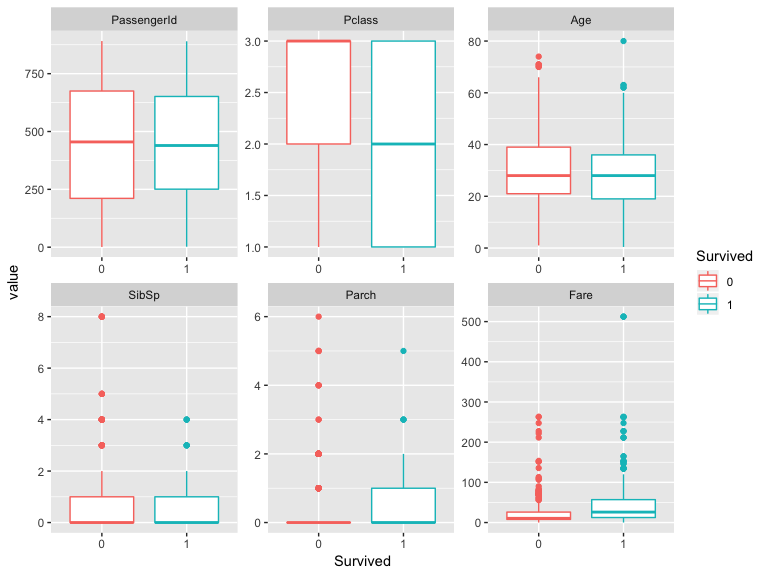
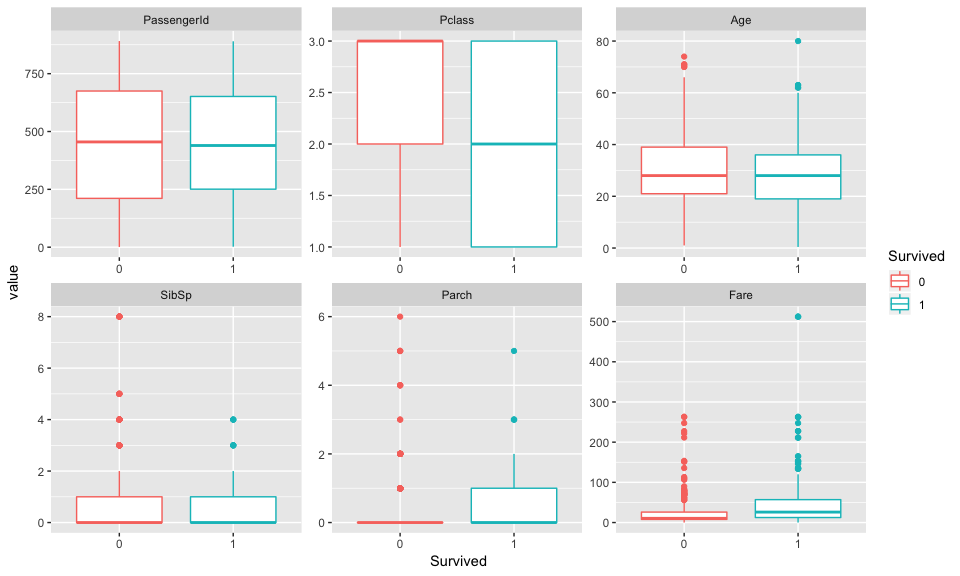
Update size of plots

diff --git a/Titanic.md b/Titanic.md
@@ -54,32 +54,6 @@ dim(df_train)
 
     ## [1] 891  12
 
-``` r
-head(df_train)
-```
-
-    ##   PassengerId Survived Pclass
-    ## 1           1        0      3
-    ## 2           2        1      1
-    ## 3           3        1      3
-    ## 4           4        1      1
-    ## 5           5        0      3
-    ## 6           6        0      3
-    ##                                                  Name    Sex Age SibSp
-    ## 1                             Braund, Mr. Owen Harris   male  22     1
-    ## 2 Cumings, Mrs. John Bradley (Florence Briggs Thayer) female  38     1
-    ## 3                              Heikkinen, Miss. Laina female  26     0
-    ## 4        Futrelle, Mrs. Jacques Heath (Lily May Peel) female  35     1
-    ## 5                            Allen, Mr. William Henry   male  35     0
-    ## 6                                    Moran, Mr. James   male  NA     0
-    ##   Parch           Ticket    Fare Cabin Embarked
-    ## 1     0        A/5 21171  7.2500              S
-    ## 2     0         PC 17599 71.2833   C85        C
-    ## 3     0 STON/O2. 3101282  7.9250              S
-    ## 4     0           113803 53.1000  C123        S
-    ## 5     0           373450  8.0500              S
-    ## 6     0           330877  8.4583              Q
-
 ### Exploratory Analysis
 
 ``` r
@@ -105,7 +79,7 @@ head(df_train[,cat_var])
     ## 6                                    Moran, Mr. James
 
 Create pairs plot of numerical variables and color depending on whether
-or not the person survived.
+or not the person survived. Red indicates a survivor.
 
 ``` r
 pairs_color <- function(cls,clr){
@@ -149,8 +123,8 @@ ggplot(melt(df_train),aes(x=Survived,y=value,colour=Survived)) + geom_boxplot() 
 
 ### Data cleaning
 
-Below we’ll need to clean up the data before moving on to any model
-fitting.
+Before attempting any fitting of the model we’ll need to clean up the
+data.
 
 ``` r
 # replace NAs with 0
@@ -222,10 +196,10 @@ table(df_test$Title)
 ### Model Training
 
 The following function will be used to calculate Error, Accuracy,
-Sensitivity and Specificity for each model.
+Sensitivity and Specificity for each
+model.
 
 ``` r
-# function taken from solution to hw9
 summPreds <- function(inpPred,inpTruth,inpMetrNms=c("err","acc","sens","spec")) {
   retVals <- numeric()
   for ( metrTmp in inpMetrNms ) {
